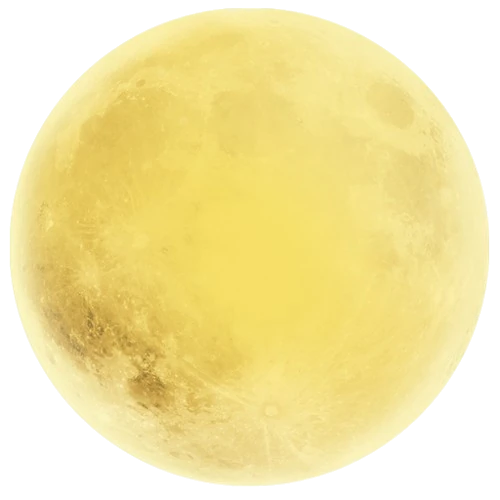
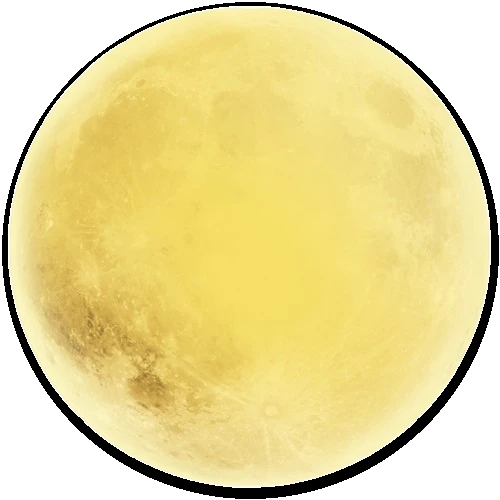
circle mask moon

diff --git a/index.html b/index.html
@@ -169,7 +169,7 @@
     <div class="star" style="top:35%;left:72%;width:2px;height:2px;animation-delay:2.8s;"></div>
     <div class="star" style="top:18%;left:35%;width:2px;height:2px;animation-delay:1.5s;"></div>
     <div class="moon-wrap">
-      <img class="moon-body" src="https://cdn.jsdelivr.net/gh/xieqixin0203/litian-studio@main/images/moon.webp?v=2" alt="月亮">
+      <img class="moon-body" src="https://cdn.jsdelivr.net/gh/xieqixin0203/litian-studio@main/images/moon.webp?v=4" alt="月亮">
     </div>
   </div>
   <div class="festival-text">中秋佳节，人月两团圆</div>
